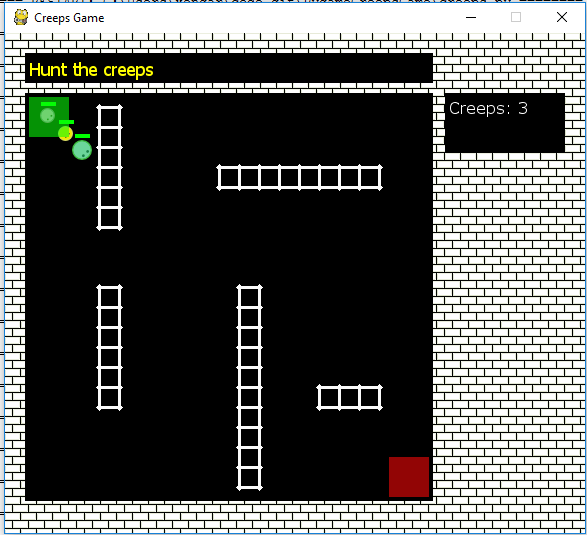
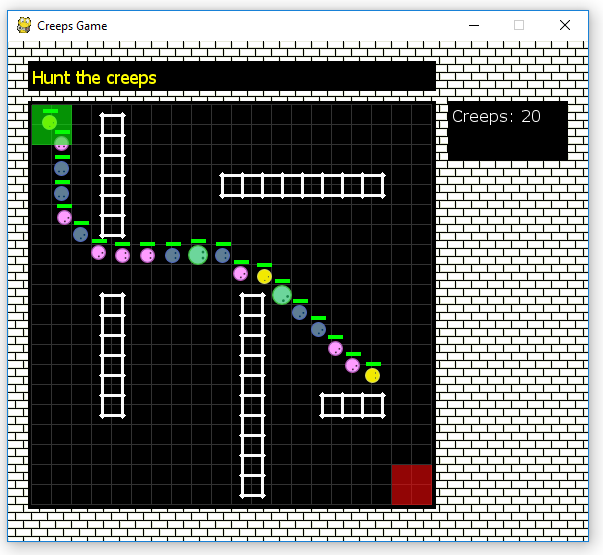
Fix bypass blocking objects

diff --git a/creeps.py b/creeps.py
@@ -420,8 +420,7 @@ class Game(object):
         for wall in self.walls:
             self.gridpath.set_blocked(wall)
     
-        self.options = dict(
-            draw_grid=False)
+        self.options = dict(draw_grid=True)
     
     def create_walls(self):
         walls_list = []
@@ -456,7 +455,7 @@ class Game(object):
         """ Convert a (x, y) pair to a (nrow, ncol) coordinate
         """
         x, y = (pos[0] - self.field_rect.left, pos[1] - self.field_rect.top)
-        return (int(y) / self.GRID_SIZE, int(x) / self.GRID_SIZE)
+        return (int(y / self.GRID_SIZE), int(x / self.GRID_SIZE))
     
     def coord2xy_mid(self, coord):
         """ Convert a (nrow, ncol) coordinate to a (x, y) pair,
@@ -606,7 +605,6 @@ class Game(object):
                 msg2 = ''
 
                 self.mboard_text = [msg1, msg2]
-                
                 self.creep_spawn_timer.update(time_passed)
                 
                 # Update and all creeps
